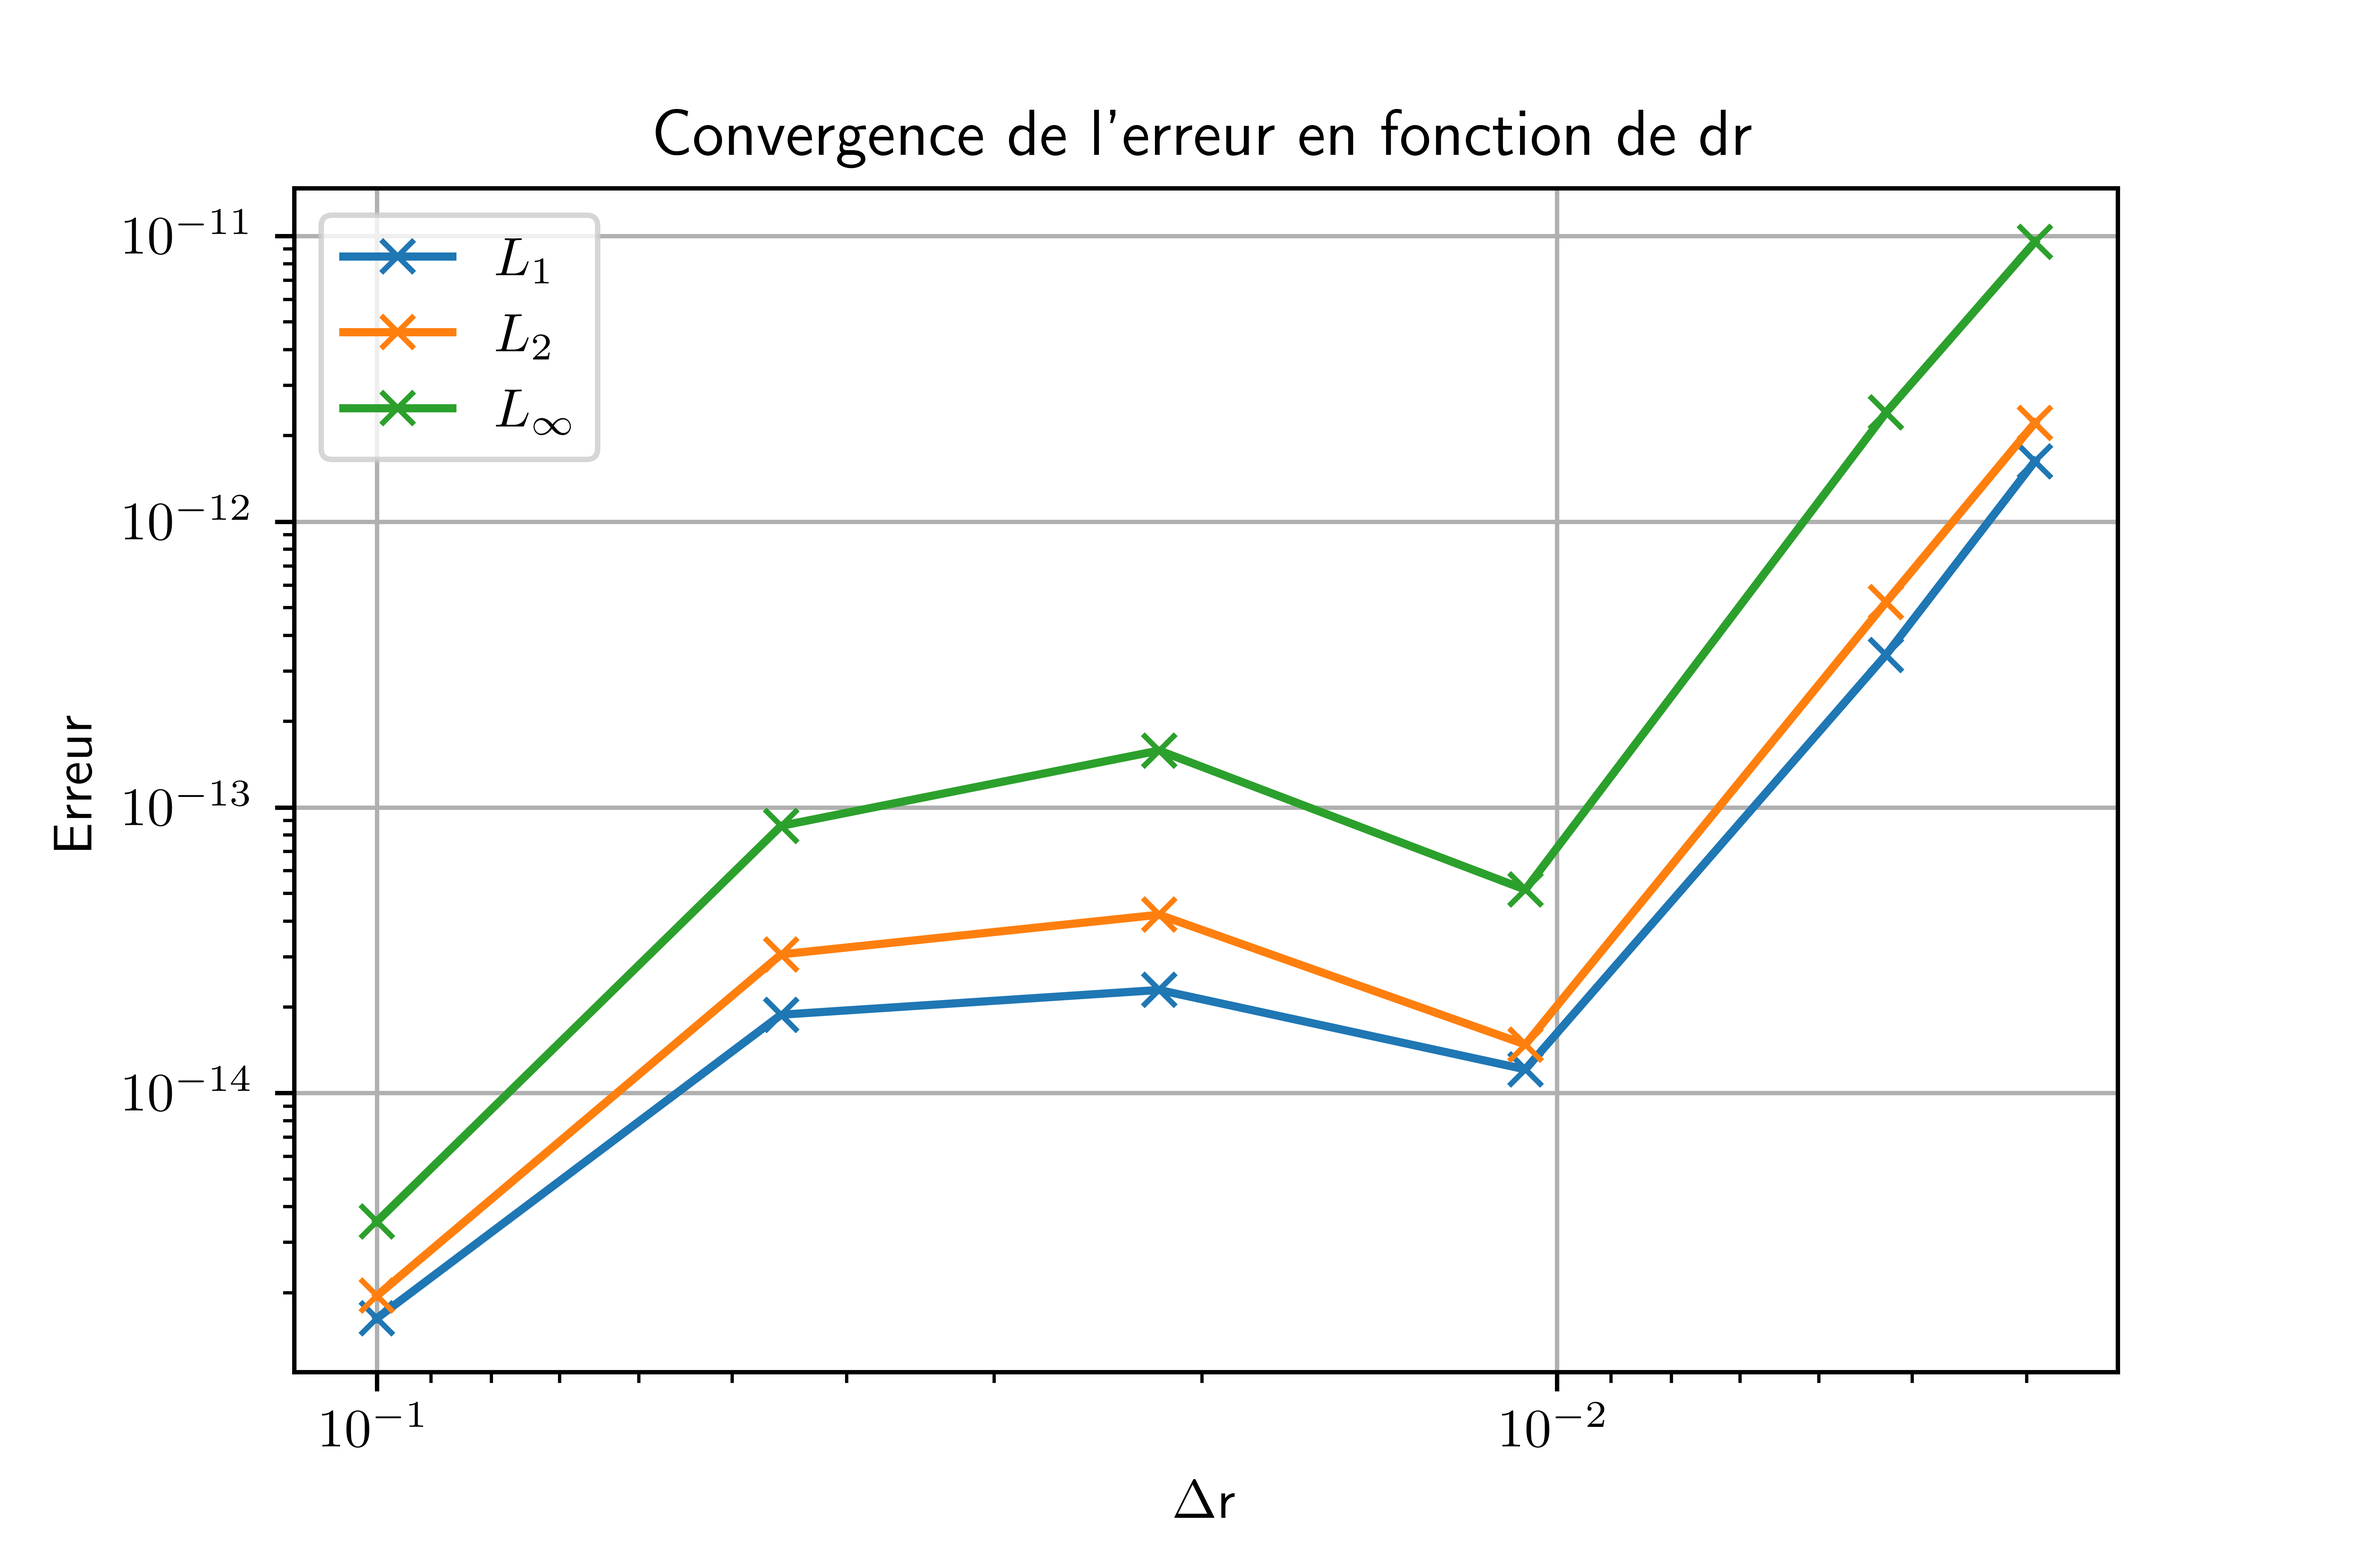
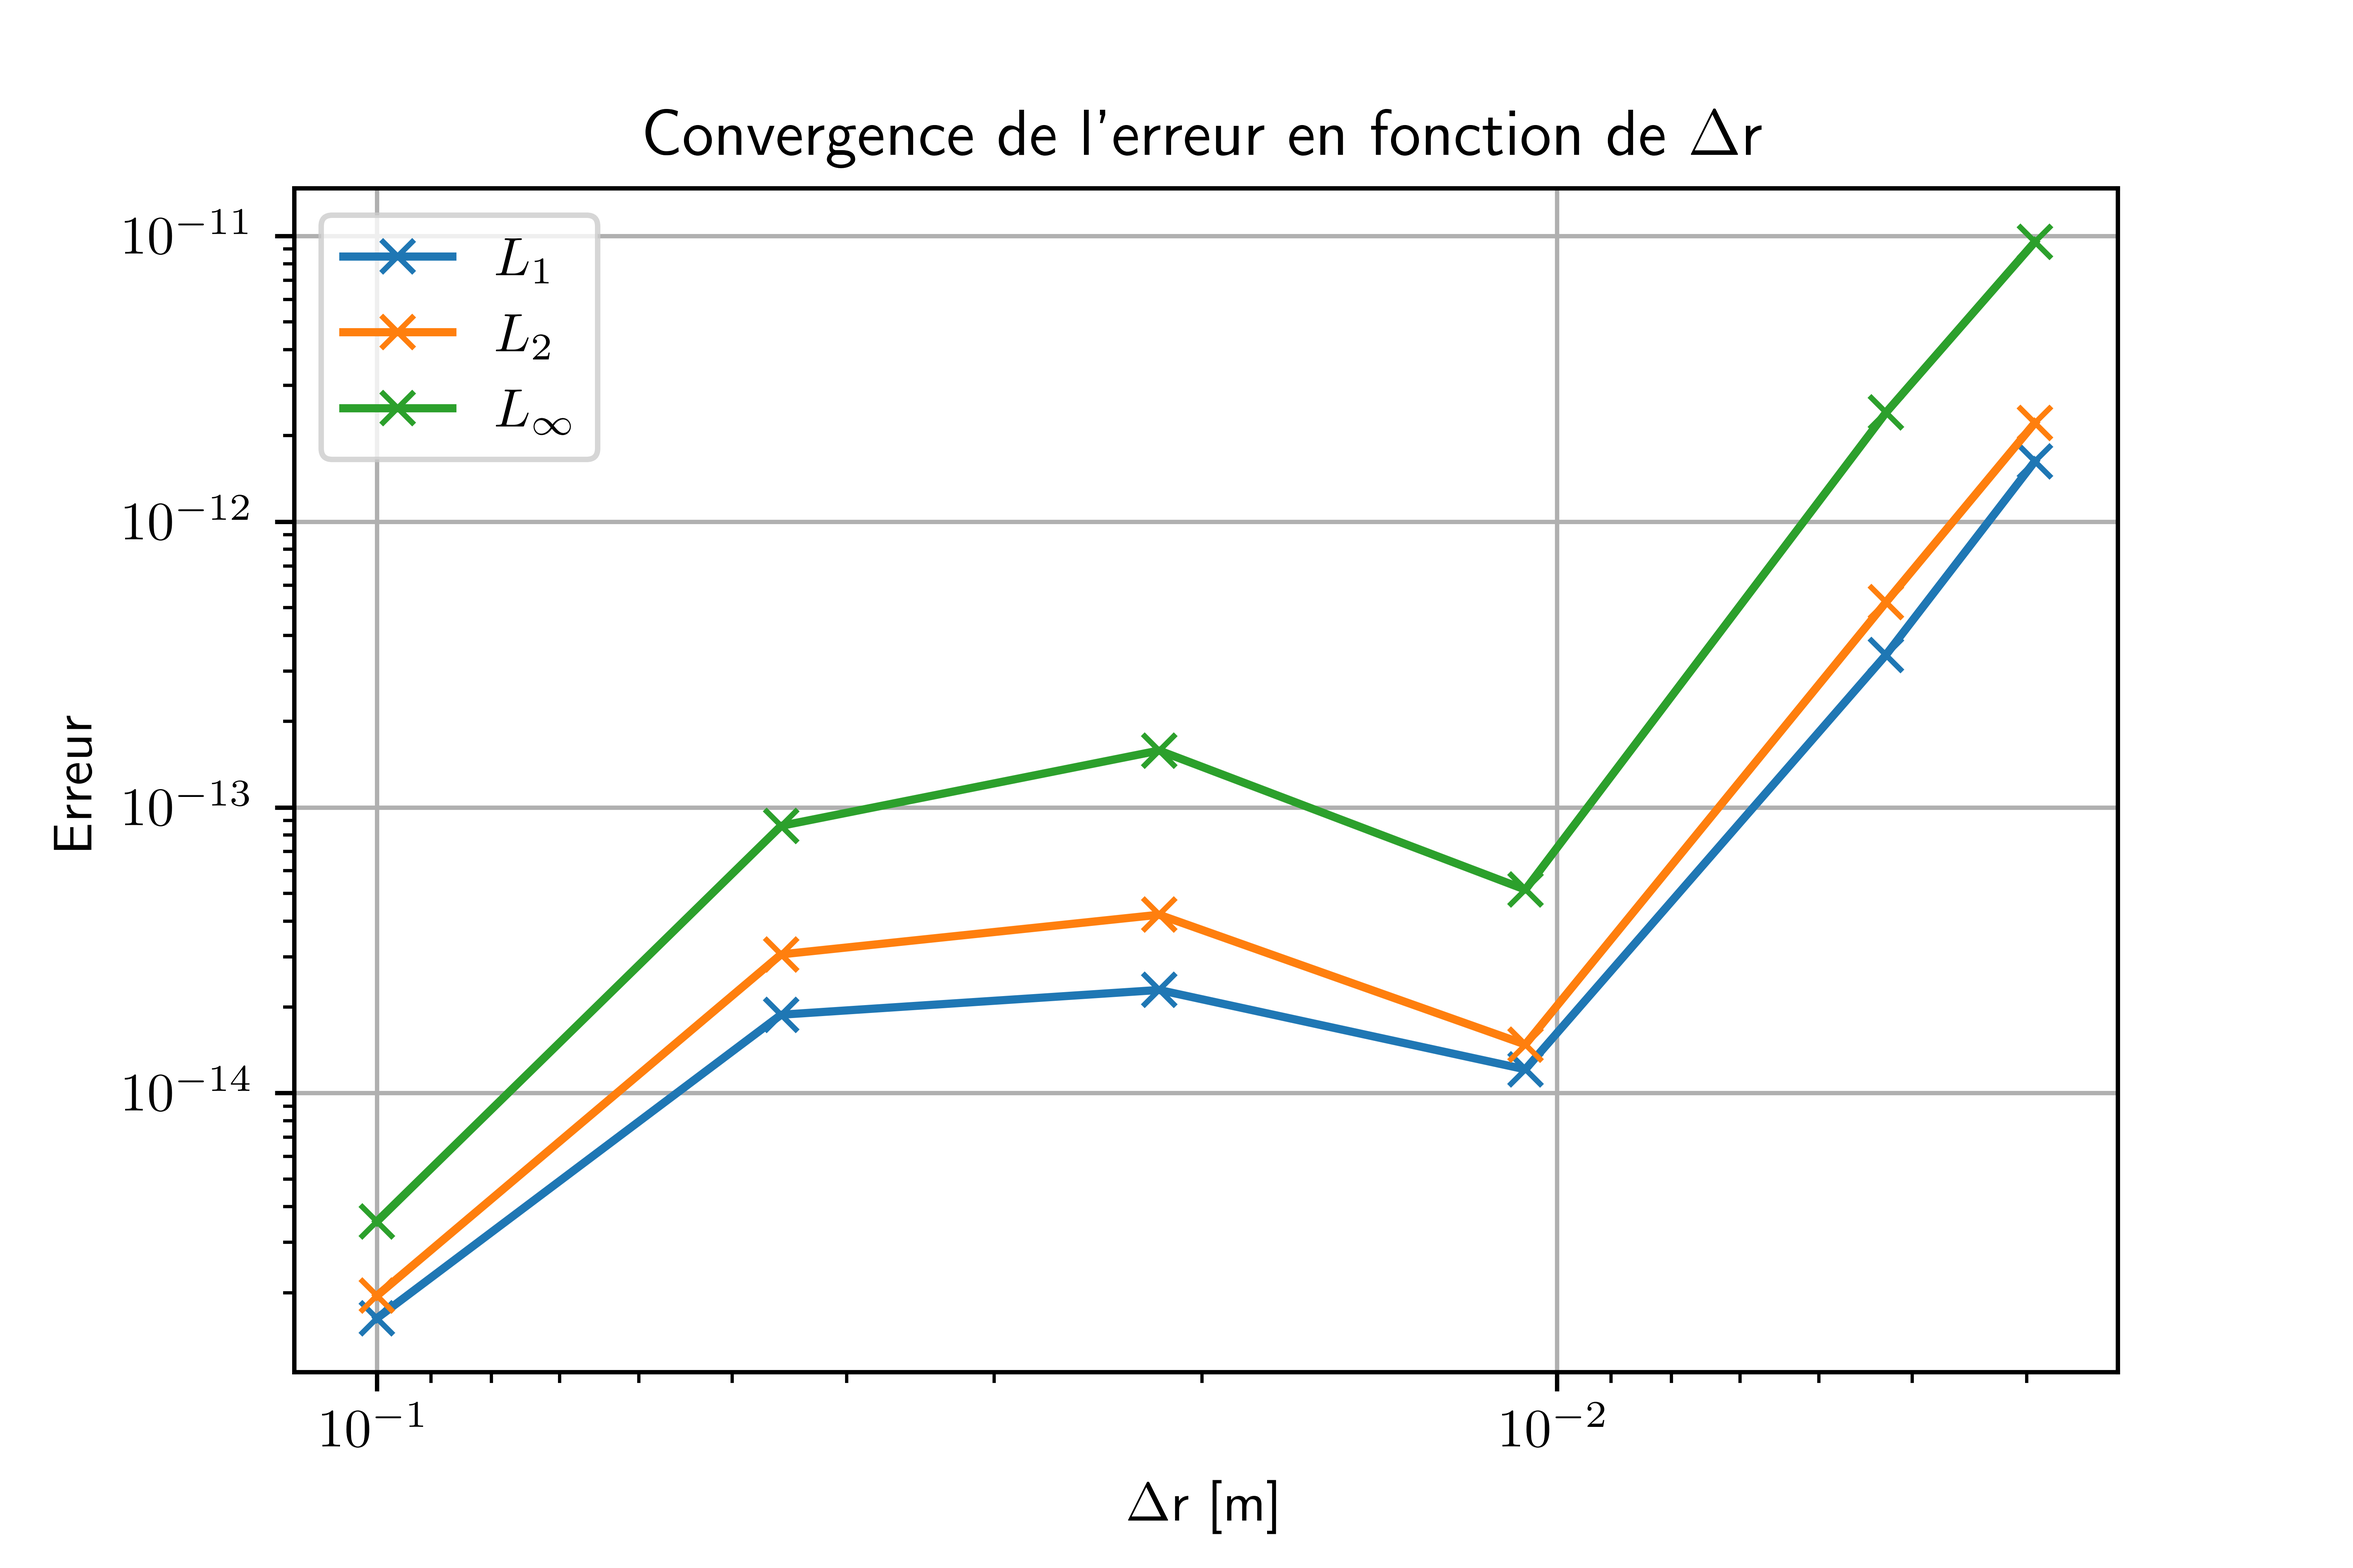
V6.1

Changed region(s): [[0.2805, 0.0625, 0.748, 0.125], [0.4987, 0.9375, 0.5298, 0.9688]]

diff --git a/bin/Projet.py b/bin/Projet.py
@@ -177,7 +177,7 @@ def PartieE_S():
     plt.loglog(dr_testee,erreur_L2,'x-',label='$L_{2}$')
     plt.loglog(dr_testee,erreur_Linf,'x-',label='$L_{\infty}$')
     plt.gca().invert_xaxis()
-    plt.xlabel("$\Delta$r")
+    plt.xlabel("$\Delta$r [m]")
     plt.ylabel("Erreur")
     plt.legend()
     plt.grid()
@@ -195,7 +195,7 @@ def PartieE_S():
     plt.grid()
     plt.xlabel("r [$m$]")
     plt.ylabel("C [mol/$m^{3}$]")
-    plt.title("Profil de concentration en fonction de $\Delta$r")
+    plt.title("Profil de concentration en fonction de r")
     plt.savefig('Ordre1_C_dr', dpi=1000)
     
     plt.figure(3)
@@ -209,7 +209,7 @@ def PartieE_S():
     plt.grid()
     plt.xlabel("$\Delta$r [$m$]")
     plt.ylabel("Erreur")
-    plt.title("Convergence de la norme de l'erreur L2 en fonction de dr")
+    plt.title("Convergence de la norme de l'erreur L2 en fonction de $\Delta$r")
     plt.legend() 
     plt.savefig('Ordre1_regression', dpi=1000)
     
@@ -273,7 +273,7 @@ def PartieF():
     plt.xlabel("$\delta$r")
     plt.ylabel("Erreur")
     plt.legend()
-    plt.title("Convergence de l'erreur  en fonction de dr")
+    plt.title("Convergence de l'erreur  en fonction de $\Delta$r")
     plt.savefig('Ordre2_Conv_dr', dpi=1000)
 
     
@@ -355,11 +355,11 @@ def PartieF_S():
     plt.loglog(dr_testee,erreur_L2,'x-',label='$L_{2}$')
     plt.loglog(dr_testee,erreur_Linf,'x-',label='$L_{\infty}$')
     plt.gca().invert_xaxis()
-    plt.xlabel("$\Delta$r")
+    plt.xlabel("$\Delta$r [m]")
     plt.ylabel("Erreur")
     plt.legend()
     plt.grid()
-    plt.title("Convergence de l'erreur  en fonction de dr")
+    plt.title("Convergence de l'erreur  en fonction de $\Delta$r")
     plt.savefig('Ordre2_Conv_dr', dpi=1000)
     
    
@@ -373,8 +373,8 @@ def PartieF_S():
     plt.grid()
     plt.xlabel("r [$m$]")
     plt.ylabel("C [mol/$m^{3}$]")
-    plt.title("Profil de concentration en fonction de $\Delta$r")
-    plt.savefig('Ordre1_C_dr', dpi=1000)
+    plt.title("Profil de concentration en fonction de r")
+    plt.savefig('Ordre2_C_dr', dpi=1000)
 
     plt.figure(3)
     a,b = np.polyfit(dr_testee[-3:-1], erreur_L2[-3:-1], 1)
@@ -386,7 +386,7 @@ def PartieF_S():
     plt.grid()
     plt.xlabel("$\Delta$r [$m$]")
     plt.ylabel("Erreur")
-    plt.title("Convergence de la norme de l'erreur L2 en fonction de dr")
+    plt.title("Convergence de la norme de l'erreur L2 en fonction de $\Delta$r")
     plt.legend()    
     plt.savefig('Ordre2_regression', dpi=1000)
 # print("Veuillez attendre la vérification du code est en cours.")    
